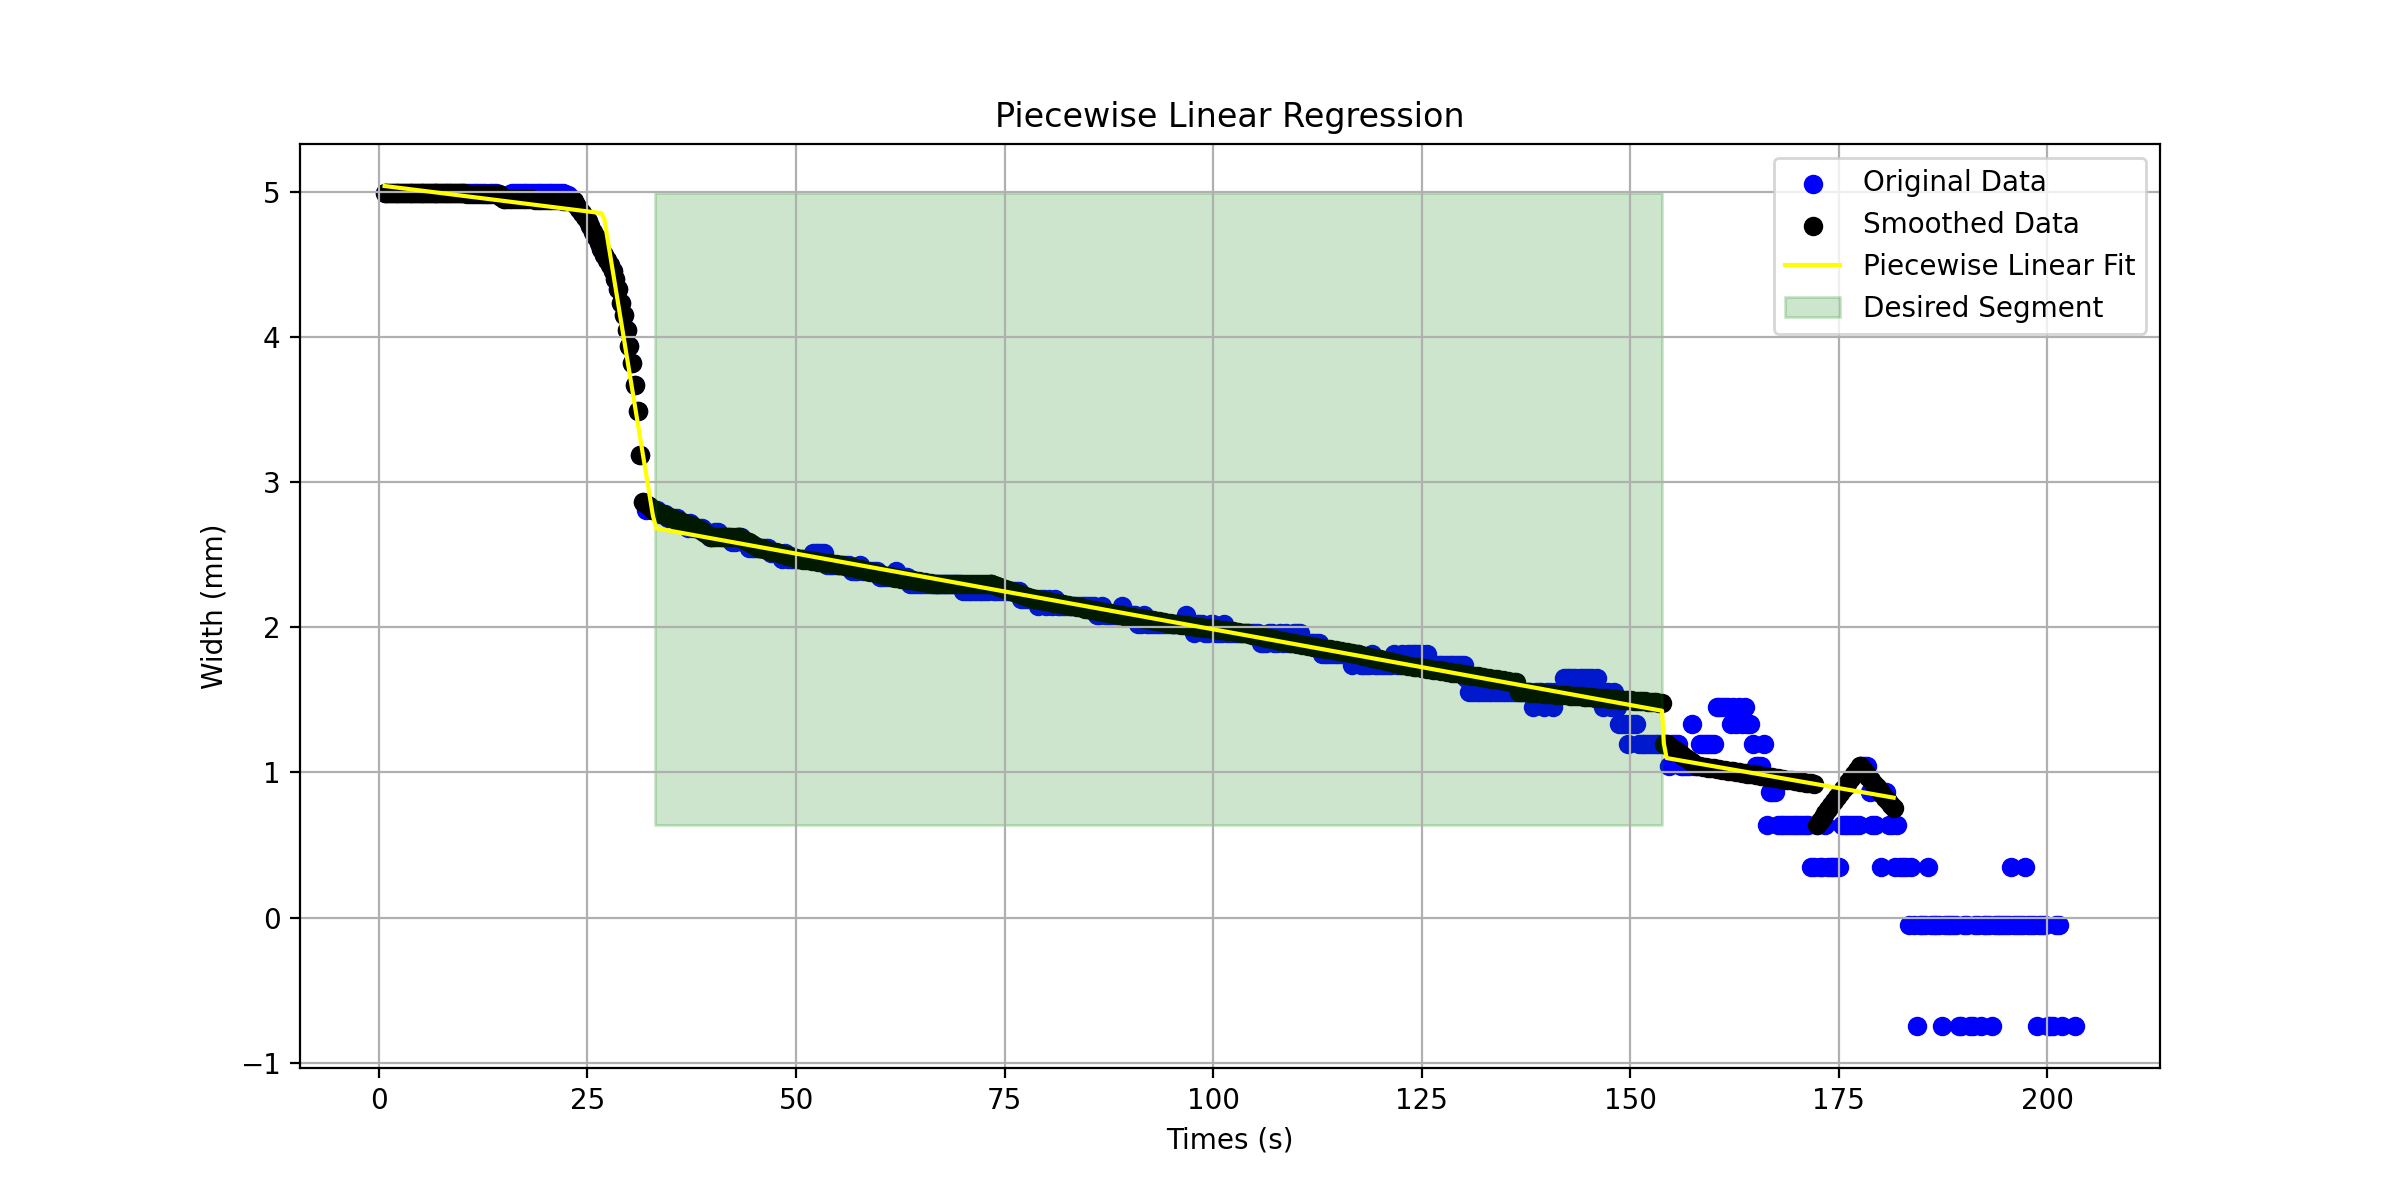
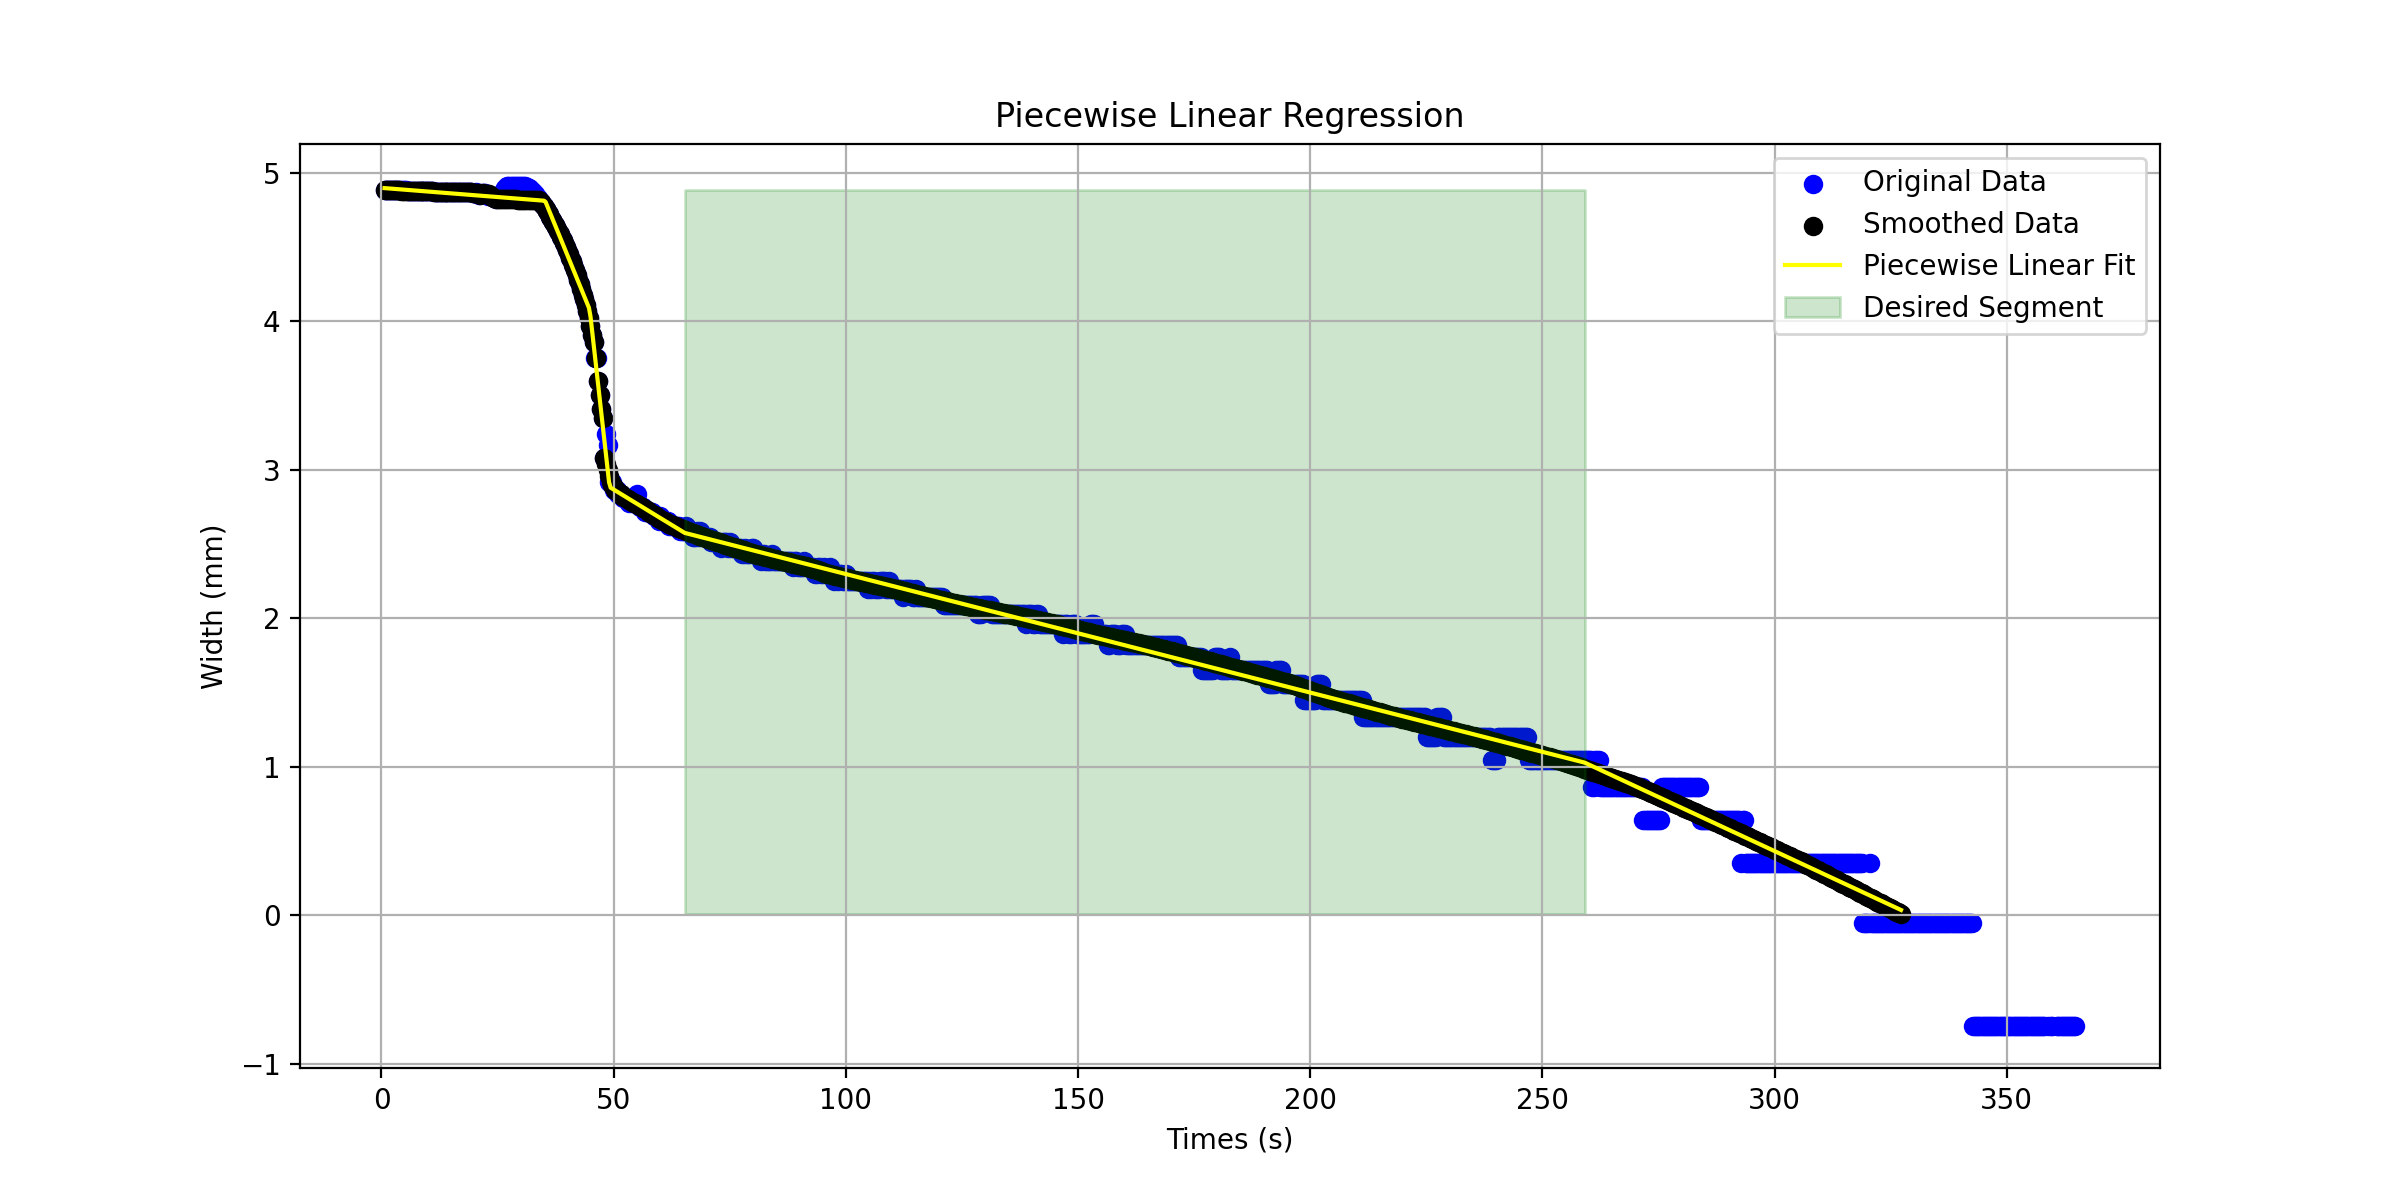
breakpoint parameter added

diff --git a/processing.py b/processing.py
@@ -6,7 +6,7 @@ from measure import *
 
 
 # Define a function for processing MP4 files in a directory.
-def process_mp4_file(directory, needle, frames_ps, skip_cols, show_or_not):
+def process_mp4_file(directory, needle, frames_ps, skip_cols, show_or_not, breaks):
     # Create an empty list to store MP4 file paths.
     mp4_files = []
 
@@ -33,7 +33,7 @@ def process_mp4_file(directory, needle, frames_ps, skip_cols, show_or_not):
             df = measureWidths(filename=mp4_file, needle_mm=needle, fps=frames_ps, show=show_or_not, skip=skip_cols)
 
             # Perform piecewise analysis and get plot data.
-            myPlot, slope, all_5_slopes = piecewise(df)
+            myPlot, slope, all_5_slopes = piecewise(df, breaks)
 
             # Extract the file name from the path.
             name = os.path.basename(mp4_file)
@@ -89,12 +89,17 @@ def process_mp4_file(directory, needle, frames_ps, skip_cols, show_or_not):
 
 # Define a class for the DOS Analyzer application.
 class DosAnalyzerApp:
-    def __init__(self, directory, needle_width, fps, skip, show_the_vid):
+    def __init__(self, directory, needle_width, fps, skip, show_the_vid, breaks):
         self.directory = directory
         self.needle_width = needle_width
         self.fps = fps
         self.skip = skip
         self.show = show_the_vid
+        self.breakpoints = int(breaks)
+
+        if self.breakpoints == 0 or self.breakpoints is None:
+            self.breakpoints = 5
+            print("\nNumber of breakpoints changed to 5. Cannot be 0.\n")
 
     # Method for analyzing files based on user inputs.
     def analyze_files(self):
@@ -104,6 +109,7 @@ class DosAnalyzerApp:
             assert type(self.fps) == int
             assert type(self.skip) == int
             assert type(self.directory) == str
+            assert type(self.breakpoints) == int
 
         except ValueError:
             # Display an error message if the inputs are not valid.
@@ -114,7 +120,8 @@ class DosAnalyzerApp:
         if self.directory is not None:
             # Call the 'process_mp4_file' function to start the analysis.
             process_mp4_file(directory=self.directory, needle=self.needle_width,
-                             frames_ps=self.fps, skip_cols=self.skip, show_or_not=self.show)
+                             frames_ps=self.fps, skip_cols=self.skip, show_or_not=self.show,
+                             breaks=self.breakpoints)
         else:
             # Display an error message if no directory is selected.
             messagebox.showerror("Error", "Please choose a directory!")

diff --git a/main.py b/main.py
@@ -11,22 +11,24 @@ from verify import *
 if __name__ == "__main__":
     """
     Input Parameters - 
-    ===========================================================================
+    ====================================================================================================================
     """
     framesPerSecond = 2999
-    needleWidth = 2.11  # in mm
-    rowsToSkip = 0  # no more than 30
-    folder = ""  # TODO - CHANGE THIS
-    showVidAndPlot = False
+    needleWidth = 2.11                            # in millimeter
+    rowsToSkip = 0                                # no more than 30 for accurate results.
+    folder = "/Users/ypm/Desktop/DoS/test_big"
+    showVidAndPlot = False                        # True to show the video and plots while being processed
+    breakpoints = 6                               # Keep between 5 - 7. Ineffective above 10 and will take much longer.
     """
-    ===========================================================================
+    ====================================================================================================================
     """
 
     dos_app = DosAnalyzerApp(directory=folder,
                              fps=framesPerSecond,
                              needle_width=needleWidth,
                              skip=(rowsToSkip + 1),
-                             show_the_vid=showVidAndPlot)
+                             show_the_vid=showVidAndPlot,
+                             breaks=breakpoints)
     dos_app.run()
 
     user_response = messagebox.askyesno("Verification", "Do you want to verify?")

diff --git a/analyze.py b/analyze.py
@@ -9,7 +9,7 @@ import shutil
 from sklearn.preprocessing import StandardScaler
 
 
-def piecewise(df):
+def piecewise(df, breaks):
     """
     Performs piecewise regression oh the data and picks the slope over the largest time period.
 
@@ -32,7 +32,7 @@ def piecewise(df):
     myPWLF = pwlf.PiecewiseLinFit(df['Times'], df['Width'], seed=1975)
 
     # Fit the data for n line segments
-    myPWLF.fit(5)
+    myPWLF.fit(breaks)
 
     # Calculate slopes
     slopes = myPWLF.calc_slopes()
